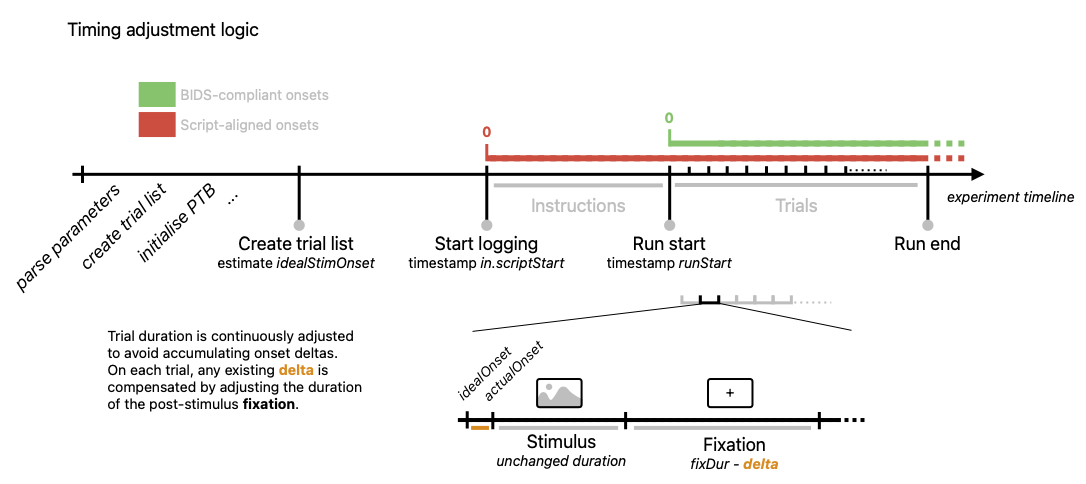
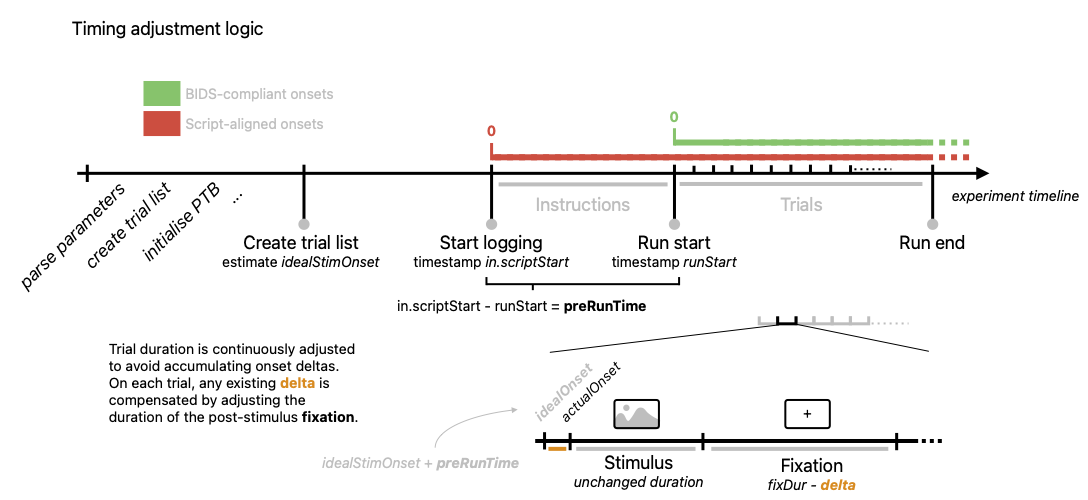
response key documentation & timing logic figure update

diff --git a/README.md b/README.md
@@ -212,17 +212,39 @@ An important aspect of this template is that it pays attention to the **timing o
 1. When started, the script will create a list of **ideal onsets** for all the trials to happen. These ideal onsets are zero-aligned, i.e. the ideal onset of the pre-fixation is `0.0`s, the ideal onset of the first image presentation is `0.0` + `params.prePost` (i.e. `10.0` with default values), the idea onset of the first fixation cross is `0.0 + params.prePost + params.fixDur`, etc.
 2. As soon as logging begins, a time stamp is created to record the *script start* (stored in `in.scriptStart`).
 3. Once the starting trigger is received from the scanner, the pre-run fixation begins, and the `runStart` time stamp is taken to mark the beginning of the actual task.
-4. From `runStart`, the `idealOnset` is re-calculated for each successive event. For instance, if `runStart` is `15.3` (i.e. 15.3 seconds elapsed before the task actually began), then the ideal stimulus onset of the first image presentation will become `0.0 + params.prePost + 15.3`.
-5. For each trial, a time stamp if taken when the stimulus is _actually_ shown on the screen, which it records as its `actualOnset`. The script will then calculate a delta between the re-calculated *ideal* and the *actual* onset of the stimulus presentation, and adjust the duration of the subsequent fixation cross duration to compensate. For instance, if a stimulus has an `actualOnset` of `25.56` but an `idealOnset` of `25.55`, the subsequent fixation cross will stay on screen for `params.fixDur - 0.01`. This adjustment is done by the `adjustFixationDuration` function.
+4. From the `runStart` time stamp, a `preRunTime` is calculated that reflects how much time has passed since logging started. The `idealStimOnset` is re-calculated baed on this value for each successive event. For instance, if an event had an `idealStimOnset` of `45.0` but `13.2` seconds have already passed since the start of logging, then its `idealStimOnset` will be re-calculated and `58.2` will be written instead. This overwriting is done on line 290:
+`runTrials(i).idealStimOnset = idealStimOnset;`
+5. For each trial, a time stamp if taken when the stimulus is _actually_ shown on the screen, which it records as its `actualOnset`. The script will then calculate a delta between the re-calculated *ideal* and the *actual* onset of the stimulus presentation, and adjust the duration of the subsequent fixation cross duration to compensate. For instance, if a stimulus has an `actualOnset` of `25.56` but an `idealStimOnset` of `25.55`, the subsequent fixation cross will stay on screen for `params.fixDur - 0.01`. This adjustment is done by the `adjustFixationDuration` function.
 
-This procedure is reflected in the log files, which contain a `EXP_ONSET` and a `ACTUAL_ONSET` column, containing the `idealOnset` and the `actualOnset` values, respectively. The `DELTA` column shows the difference between the two. It's worth noting that the onsets logged in these columns are *aligned to the start of the script* (`in.scriptStart`). This is useful from a logging perspective, as it allows to keep track of _all events_, including instruction display, pre-fixation, etc. However, this is not the format expected by BIDS. According to BIDS convention, onset values must be aligned to the start of the run (`runStart`), i.e. when the recording starts. To be able to use log files as event files, it is essential then to re-align the `ACTUAL_ONSET` column to create the final `onset` column. 
+This procedure is reflected in the log files, which contain a `EXP_ONSET` and a `ACTUAL_ONSET` column for all `Stim` and `Fix` events, containing the `idealStimOnset` and the `actualOnset` values, respectively. The `DELTA` column shows the difference between the two. It's worth noting that the onsets logged in these columns are *aligned to the start of the script* (`in.scriptStart`). This is useful from a logging perspective, as it allows to keep track of _all events_, including instruction display, pre-fixation, etc. However, this is not the format expected by BIDS. According to BIDS convention, onset values must be aligned to the start of the run (`runStart`), i.e. when the recording starts. To be able to use log files as event files, it is essential then to re-align the `ACTUAL_ONSET` column to create the final `onset` column. 
 
 ![timing_adjustment_logic](./src/readme_files/timing_adjustment_logic.png)
 
-### response keys
+### Response keys
 
-talk here about the way we bring the keys to be logged, from parameters, to parse param, to log key pres
-mention that response keys are stored in the params structure at the start of the run
+Registering responses correctly is key. Here is how the script handles this aspect of the task:
+- In `parameters.txt`, declare all the response keys **explicitely**. For instance, if you want to use the `J` key, write: `params.respKeyPC1 = 'j'`.
+- After `parseParameterFile` is executed, response keys are be stored as strings in `params`. 
+  Here is an example, in which `fmriMode` is `true`:
+  ```
+  parameters.txt            params
+  params.respKey1 = 3       params.respKey1 = '3'
+  params.respKey2 = 4       params.respKey2 = '4'
+  params.triggerKey = 5     params.triggerKey = '5'
+  ```
+- When an input is detected, `logKeyPress` (or `macLogKeyPress` if `macMode` is `true`) detects it, find its associated `keyCode`, and compares it to the `KbName` of our keys of interest (trigger key, response key, escape key). It then logs it and, if necessary, takes further action (e.g. close the script if `escape` was pressed).
+
+A few more remarks:
+- We turn response keys into strings in `params` because the `keyCodes` we detect correspond to the `KbNames` of the _string_ versions of response keys.
+- Response keys are stored in the params structure at the start of each run as a list. 
+  ```
+  % Based on the run number find the response buttons
+  respKey1 = unique([runTrials.respKey1]);
+  respKey2 = unique([runTrials.respKey2]);
+  % List all the response keys and append them to the parameters
+  params.respKeys = [respKey1, respKey2]; % add any value needed in here
+  ```
+  This list is used by `logKeyPress` to compare the received input, and return it only if it is part of the expected response keys. This has the advantage of only returning _one_ behavioural response to the `runTrials` structure that is part of the instructed response buttons (all responses are logged regardless). The list format allows for more response keys to easily be fitted into this logic, which we repeat for every run as the arrangement of keys might change (e.g. left and right button switching across runs).
 
 ### Trouble shooting notes
 
